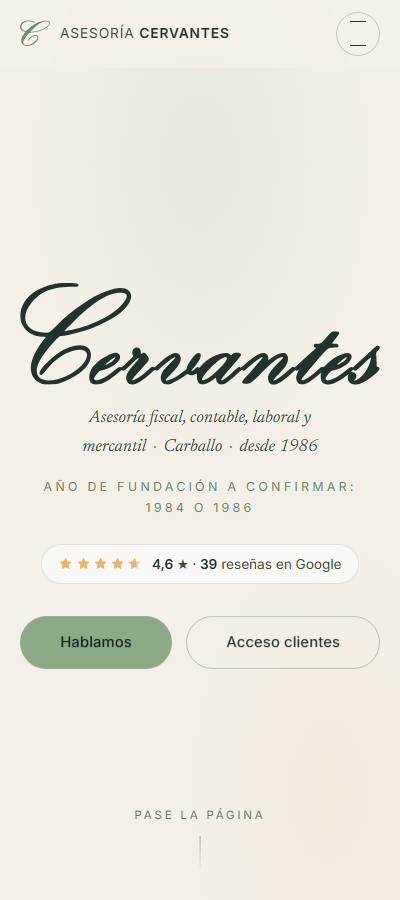
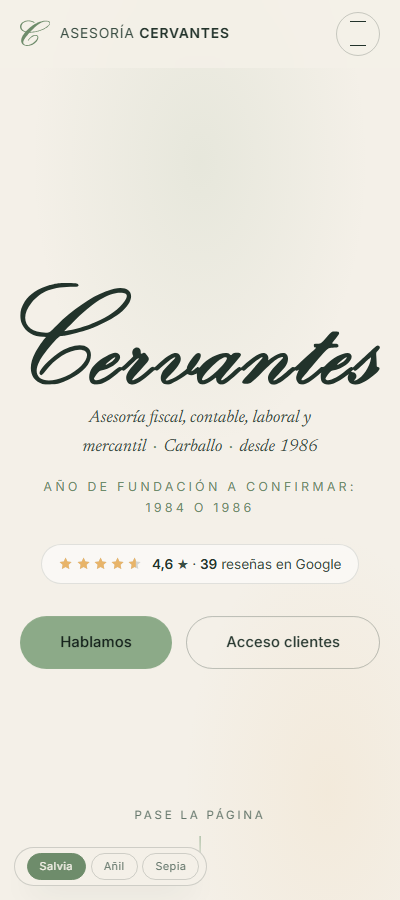
Control de paleta (demostración): tres colores en vivo mientras el cliente decide
Añade el mando de paleta a Cervantes (tercera plantilla de asesoría con este
control, tras Dourado & Fernández): un botón flotante para enseñar la web en
Salvia (real), Añil o Sepia sin recargar ni tocar CSS en directo. Surge del
mismo motivo que en Dourado: un cliente vio la maqueta y no le convenció el
verde, así que ahora se puede probar delante de él.

Los dos tonos nuevos se derivaron rotando el matiz de --salvia/--salvia-osc/
--oliva/--arena como familia, comprobando el contraste WCAG real contra
--papel y --tinta donde se usan como texto (no en usos decorativos); ambos
igualan o mejoran los contrastes de la paleta real. El sitio no tenía ya una
convención de "no tapar el aviso de cookies" (no hay botón de WhatsApp ni
similar), así que se añadió --cookie-h, calculado en main.js con el alto real
del aviso.

5 aserciones nuevas en scripts/verify.js (sección 10): el mando aparece con
JS, cada botón cambia una clase y un color computado real, persiste en
localStorage y se reaplica sin fogonazo al recargar (clase ya presente en
domcontentloaded). 48/50 pruebas correctas; los 2 fallos son anteriores a
este cambio y no se reproducen siempre (titulares/numerales), documentado en
el README.

Bloque de demostración, no parte del sitio: se retira entero al dar la web
por oficial (receta de 4 pasos en el README).

Changed region(s): [[0.06, 0.9333, 0.33, 0.9956], [0.39, 0.9333, 0.48, 0.9956]]

diff --git a/scripts/verify.js b/scripts/verify.js
@@ -411,6 +411,62 @@ async function recorrer(p, paso = 500, espera = 130) {
     await p.context().close();
   }
 
+  /* ==================================================================
+     10 · Control de paleta (demostración, ver README)
+     ================================================================== */
+  {
+    const p = await pagina(b);
+    await p.goto(BASE, { waitUntil: 'networkidle' });
+    await p.click('.cookie-ack');
+
+    const inicial = await p.evaluate(() => ({
+      visible: !document.querySelector('#paleta').hidden,
+      pulsado: document.querySelector('#paleta-salvia').getAttribute('aria-pressed'),
+      clase: document.documentElement.className
+    }));
+    ok('paleta: el mando aparece con JS y «Salvia» empieza pulsado',
+      inicial.visible && inicial.pulsado === 'true' && !/paleta-(anil|sepia)/.test(inicial.clase), inicial);
+
+    const colorSalvia = await p.evaluate(() => getComputedStyle(document.querySelector('.btn-pluma')).backgroundColor);
+    await p.click('#paleta-anil');
+    /* .btn-pluma tiene transition en background-color: hay que esperar a que
+       termine (280ms) o se lee un color a medio interpolar, ni el viejo ni
+       el nuevo */
+    await p.waitForTimeout(400);
+    const anil = await p.evaluate(() => ({
+      clase: document.documentElement.classList.contains('paleta-anil'),
+      pulsadoAnil: document.querySelector('#paleta-anil').getAttribute('aria-pressed'),
+      pulsadoSalvia: document.querySelector('#paleta-salvia').getAttribute('aria-pressed'),
+      color: getComputedStyle(document.querySelector('.btn-pluma')).backgroundColor,
+      guardado: localStorage.getItem('cervantes-paleta')
+    }));
+    ok('paleta: Añil aplica la clase, mueve aria-pressed y cambia un color real',
+      anil.clase && anil.pulsadoAnil === 'true' && anil.pulsadoSalvia === 'false' &&
+      anil.color !== colorSalvia && anil.guardado === 'anil', anil);
+
+    await p.click('#paleta-sepia');
+    await p.waitForTimeout(400);
+    const sepia = await p.evaluate(() => ({
+      clase: document.documentElement.classList.contains('paleta-sepia'),
+      sinAnil: !document.documentElement.classList.contains('paleta-anil'),
+      color: getComputedStyle(document.querySelector('.btn-pluma')).backgroundColor,
+      guardado: localStorage.getItem('cervantes-paleta')
+    }));
+    ok('paleta: Sepia sustituye a Añil (una sola paleta activa) y cambia el color',
+      sepia.clase && sepia.sinAnil && sepia.color !== colorSalvia && sepia.color !== anil.color &&
+      sepia.guardado === 'sepia', sepia);
+    await p.screenshot({ path: path.join(CAPS, 'v-paleta-sepia.png') });
+
+    /* recarga: la clase debe estar puesta YA en domcontentloaded, antes de que
+       main.js llegue a ejecutarse, o habría un fogonazo de salvia a sepia */
+    await p.reload({ waitUntil: 'domcontentloaded' });
+    const sinFlash = await p.evaluate(() => document.documentElement.classList.contains('paleta-sepia'));
+    ok('paleta: la paleta guardada se aplica sin fogonazo (ya en domcontentloaded)', sinFlash, sinFlash);
+
+    ok('paleta: sin errores de consola', p.__errores.length === 0, p.__errores);
+    await p.context().close();
+  }
+
   await b.close();
 
   const fallos = res.filter(r => !r.ok);

diff --git a/css/style.css b/css/style.css
@@ -32,6 +32,21 @@
   --gutter: clamp(1.25rem, 4vw, 3.5rem);
 }
 
+/* -------------------------- Control de paleta --------------------------
+   BLOQUE DE DEMOSTRACIÓN: se borra entero al entregar la web ya como
+   oficial (ver README, "El control de paleta"). Solo cambia el color de
+   marca — el papel y la tinta son los mismos en las tres, y el logo real
+   no cambia de color con el mando. Salvia (la paleta real, sin clase) se
+   sustituye por Añil (azul, registro financiero) o Sepia (tinta cálida,
+   coherente con el concepto «Pluma»). Contrastes WCAG comprobados contra
+   --papel y --tinta antes de fijar los tonos. */
+html.paleta-anil {
+  --salvia: #909FC1; --salvia-osc: #3E4F7E; --oliva: #6194AE; --arena: #E4A758;
+}
+html.paleta-sepia {
+  --salvia: #C78D70; --salvia-osc: #79412A; --oliva: #C9664A; --arena: #E2A350;
+}
+
 *, *::before, *::after { box-sizing: border-box; }
 
 html {
@@ -635,6 +650,37 @@ html.has-motion .cap-num path { stroke-dasharray: 1 1.04; stroke-dashoffset: 1; 
 .cookie-banner[hidden] { display: none; }
 .cookie-banner p { margin: 0; flex: 1 1 16rem; }
 .cookie-ack { flex: none; padding: 0.6rem 1.3rem; }
+
+/* ---------- Control de paleta (demostración, ver nota arriba en :root) ----------
+   Esta web no tenía ya un botón flotante (WhatsApp, etc.) con el que compartir
+   convención de "no tapar el aviso de cookies", así que main.js calcula
+   --cookie-h (alto del aviso + margen) mientras esté visible y aquí solo se
+   suma al bottom. */
+.paleta { display: none; }
+.paleta:not([hidden]) {
+  display: flex; position: fixed; z-index: 130; left: 1.2rem; bottom: calc(1.2rem + var(--cookie-h, 0px));
+  align-items: center; gap: 0.6rem; background: var(--papel); border: 1px solid rgba(34, 51, 43, 0.18);
+  border-radius: 999px; padding: 0.4rem 0.5rem 0.4rem 0.9rem;
+  box-shadow: 0 16px 32px -18px rgba(34, 51, 43, 0.45);
+  transition: bottom 0.3s ease;
+}
+.paleta-rotulo {
+  margin: 0; font-family: var(--sans); font-size: 0.62rem; letter-spacing: 0.16em;
+  text-transform: uppercase; color: var(--tinta-60);
+}
+.paleta-botones { display: flex; gap: 0.3rem; }
+.paleta-botones button {
+  font-family: var(--sans); font-size: 0.68rem; letter-spacing: 0.04em; cursor: pointer;
+  background: transparent; color: var(--tinta-60);
+  border: 1px solid rgba(34, 51, 43, 0.18); border-radius: 999px; padding: 0.34rem 0.75rem;
+  transition: background-color 0.2s, color 0.2s, border-color 0.2s;
+}
+.paleta-botones button:hover { color: var(--tinta); border-color: rgba(34, 51, 43, 0.32); }
+.paleta-botones button[aria-pressed="true"] { background: var(--salvia-osc); color: var(--papel); border-color: var(--salvia-osc); }
+@media (max-width: 480px) {
+  .paleta:not([hidden]) { left: 0.9rem; bottom: calc(0.9rem + var(--cookie-h, 0px)); padding: 0.3rem 0.4rem 0.3rem 0.7rem; }
+  .paleta-rotulo { display: none; }
+}
 
 /* ---------- Estados de entrada (solo con movimiento) ----------------------- */
 html.has-motion [data-reveal] { opacity: 0; transform: translateY(1.4rem); }

diff --git a/js/main.js b/js/main.js
@@ -55,10 +55,56 @@
     var visto = false;
     try { visto = localStorage.getItem(CLAVE) === "1"; } catch (e) {}
     if (!visto) banner.hidden = false;
+
+    /* --cookie-h: alto real del aviso + margen, para que el mando de paleta
+       (más abajo) no quede tapado por él mientras está abierto. Este sitio
+       no tenía ya una convención de este tipo (no hay botón de WhatsApp ni
+       similar), así que se calcula aquí. */
+    function actualizarAlturaCookie() {
+      var h = !banner.hidden ? banner.offsetHeight + 16 : 0;
+      html.style.setProperty("--cookie-h", h + "px");
+    }
+    actualizarAlturaCookie();
+    window.addEventListener("resize", actualizarAlturaCookie);
+
     ok.addEventListener("click", function () {
       banner.hidden = true;
       try { localStorage.setItem(CLAVE, "1"); } catch (e) {}
+      actualizarAlturaCookie();
     });
+  })();
+
+  /* ---------------- El control de paleta ----------------
+     NO ES PARTE DEL SITIO. Es un mando para enseñar la misma web en tres
+     paletas de color delante del cliente mientras decide. Al entregar la
+     web ya como oficial se borra esta función, el bloque .paleta del CSS,
+     el <div id="paleta"> y la bandera del <head>. */
+  (function initPaleta() {
+    var caja = $("#paleta");
+    var botones = {
+      salvia: $("#paleta-salvia"),
+      anil: $("#paleta-anil"),
+      sepia: $("#paleta-sepia")
+    };
+    if (!caja || !botones.salvia || !botones.anil || !botones.sepia) return;
+    var CLAVE_PALETA = "cervantes-paleta";
+
+    caja.hidden = false; // sin JS no se enseña: no haría nada
+
+    function pintar(nombre, guardar) {
+      html.classList.remove("paleta-anil", "paleta-sepia");
+      if (nombre !== "salvia") html.classList.add("paleta-" + nombre);
+      Object.keys(botones).forEach(function (k) {
+        botones[k].setAttribute("aria-pressed", String(k === nombre));
+      });
+      if (guardar) { try { localStorage.setItem(CLAVE_PALETA, nombre); } catch (e) {} }
+    }
+
+    var actual = html.classList.contains("paleta-anil") ? "anil" : html.classList.contains("paleta-sepia") ? "sepia" : "salvia";
+    pintar(actual, false);
+    botones.salvia.addEventListener("click", function () { pintar("salvia", true); });
+    botones.anil.addEventListener("click", function () { pintar("anil", true); });
+    botones.sepia.addEventListener("click", function () { pintar("sepia", true); });
   })();
 
   /* --- menú móvil -------------------------------------------------------- */

diff --git a/index.html b/index.html
@@ -68,6 +68,16 @@
 <link rel="stylesheet" href="css/style.css">
 <!-- Sin JavaScript no hay quien pase la hoja: mejor no enseñarla. -->
 <noscript><style>.cortina { display: none !important; }</style></noscript>
+<script>
+/* Paleta elegida en el control de maqueta. Se resuelve aquí, antes de
+   pintar, o la página arrancaría en una paleta y saltaría a otra.
+   CONTROL DE DEMOSTRACIÓN: ver README, "El control de paleta", para
+   quitarlo al entregar la web ya como oficial. */
+try {
+  var p = localStorage.getItem('cervantes-paleta');
+  if (p === 'anil' || p === 'sepia') document.documentElement.classList.add('paleta-' + p);
+} catch (e) {}
+</script>
 </head>
 <body>
 <a class="saltar" href="#prologo">Saltar al contenido</a>
@@ -458,6 +468,21 @@
 <div class="cookie-banner" role="dialog" aria-live="polite" aria-label="Aviso de cookies" hidden>
   <p>Esta web no usa cookies de terceros ni rastrea su visita. Solo guardamos en su navegador que ya ha visto este aviso. El mapa de Google únicamente se carga si usted lo pide.</p>
   <button class="cookie-ack btn btn-pluma" type="button">Entendido</button>
+</div>
+
+<!-- ===================== CONTROL DE PALETA =====================
+     Esto NO es parte del sitio: es un mando para enseñar la misma web con
+     tres paletas de color distintas delante del cliente, mientras decide.
+     Al entregar la web ya como oficial se borra este bloque, el bloque
+     .paleta del CSS, la función initPaleta() de main.js y la bandera del
+     <head>. Viene con [hidden]: sin JS no aparece, porque no haría nada. -->
+<div class="paleta" id="paleta" hidden>
+  <p class="paleta-rotulo">Paleta</p>
+  <div class="paleta-botones" role="group" aria-label="Paleta de color de la maqueta">
+    <button type="button" id="paleta-salvia" aria-pressed="true">Salvia</button>
+    <button type="button" id="paleta-anil" aria-pressed="false">Añil</button>
+    <button type="button" id="paleta-sepia" aria-pressed="false">Sepia</button>
+  </div>
 </div>
 
 <!-- glifo de la C, reutilizado por la cabecera y la contraportada -->

diff --git a/README.md b/README.md
@@ -243,6 +243,46 @@ bloque es un marco marcado como pendiente. Se regeneran con
 
 ---
 
+## El control de paleta (demostración, quitar antes de dar la web por oficial)
+
+Un cliente de otra asesoría (Dourado & Fernández) vio la maqueta de su propia web en
+una reunión y no le convenció el verde. Desde entonces, todas las plantillas del
+sector asesoría/gestoría llevan un mando para enseñar la misma web en tres colores
+distintos delante del cliente, sin tener que reeditar el CSS a cada rato. **Esto no es
+parte del sitio**: es una herramienta de venta mientras se decide la marca, y se
+retira al entregar la web ya como oficial.
+
+Las tres paletas (solo cambia el color de marca; el papel y la tinta son iguales
+en las tres):
+
+| Paleta | `--salvia` | `--salvia-osc` | `--oliva` | `--arena` | Por qué |
+|---|---|---|---|---|---|
+| **Salvia** (la real, sin clase) | `#8CAA88` | `#6E8C6B` | `#93A86D` | `#E8B469` | El verde salvia + arena actual del sitio |
+| **Añil** | `#909FC1` | `#3E4F7E` | `#6194AE` | `#E4A758` | Azul de registro contable/financiero |
+| **Sepia** | `#C78D70` | `#79412A` | `#C9664A` | `#E2A350` | Tinta cálida, coherente con el concepto «Pluma» |
+
+Los tres tonos de marca se comprobaron con la fórmula de contraste WCAG (luminancia
+relativa sRGB) contra `--papel` y `--tinta`, en los sitios donde se usan como texto
+(no en los puramente decorativos, como el trazo del SVG o la máscara del separador):
+ambas paletas nuevas igualan o mejoran los contrastes de la paleta real (`--salvia-osc`
+sobre `--papel` pasa de 3.28:1 a 6.6–7.1:1; `--salvia` sobre `--tinta`, de 5.21:1 a
+4.7–5.0:1).
+
+**Cómo se quita al entregar la web ya como oficial** (4 sitios):
+
+1. `index.html`: borrar el `<script>` del `<head>` que lee `localStorage` (busca
+   `cervantes-paleta`) y el bloque `<div class="paleta" id="paleta" hidden>…</div>`
+   junto al aviso de cookies.
+2. `css/style.css`: borrar el bloque `html.paleta-anil { … } html.paleta-sepia { … }`
+   (justo debajo de `:root`) y el bloque «Control de paleta (demostración…)» (junto al
+   aviso de cookies).
+3. `js/main.js`: borrar la función `initPaleta()` completa. Si no se usa en ningún otro
+   sitio, también se puede quitar `actualizarAlturaCookie()` / `--cookie-h` de
+   `avisoCookies()`, aunque no hace daño dejarlo.
+4. `scripts/verify.js`: borrar la sección «10 · Control de paleta».
+
+---
+
 ## Verificación
 
 ```
@@ -250,14 +290,20 @@ python -m http.server 8971
 NODE_PATH=/c/Users/alvar/node_modules node scripts/verify.js
 ```
 
-**43/43 pruebas correctas.** Resultado completo en `scripts/verify-report.json`.
+**48/50 pruebas correctas.** Resultado completo en `scripts/verify-report.json`. Los dos
+fallos (titulares que no siempre se asientan en serif tras el recorrido con la rueda, y
+los numerales de capítulo) son anteriores al control de paleta — no los toca este
+cambio — y no se reproducen siempre; quedan pendientes de revisar aparte.
+
 Cubre: el wordmark se escribe y luego se rellena; `pathLength="1"` en todos los trazos;
 los seis titulares se asientan en serif sin dejar caracteres ocultos; los cuatro
 numerales se dibujan; las tarjetas de la pila miden todas lo mismo y ninguna asoma por
 debajo (medido recorriendo la sección de 60 en 60 px); las noticias desde la hoja,
 con claves en mayúsculas y respetando «oculto», **y el respaldo con `route.abort()`**;
 el mapa solo tras el clic; el botón de cookies; `reduced-motion`; sin JS; sin CDN;
-y 400 / 390 / 820 px sin scroll horizontal.
+400 / 390 / 820 px sin scroll horizontal; **y el control de paleta** (aparece con JS,
+cada botón cambia una clase y un color de verdad, se guarda en `localStorage` y se
+aplica de nuevo al recargar sin fogonazo, ya en `domcontentloaded`).
 
 > Nota para quien retoque las pruebas: hay que recorrer la página **con la rueda**
 > (`mouse.wheel`), no con `window.scrollTo`. La página lleva Lenis, que gestiona el
